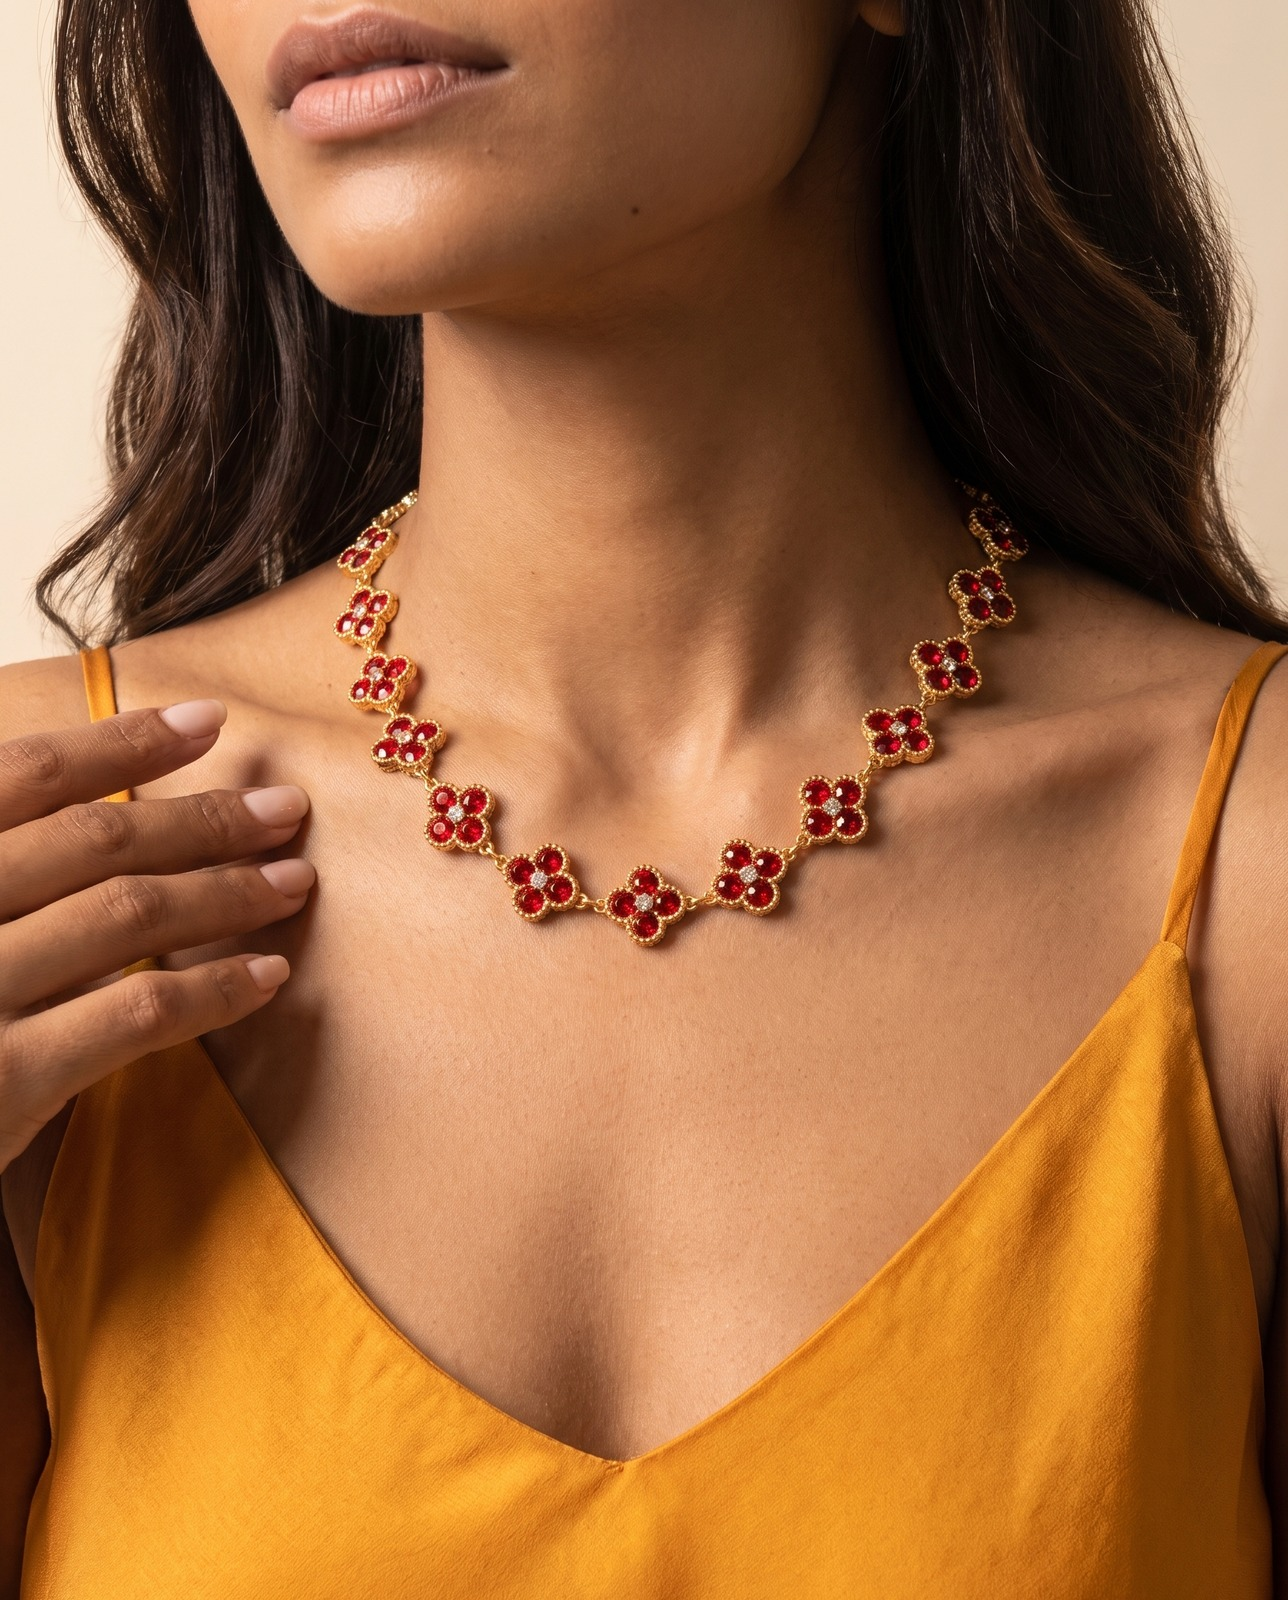
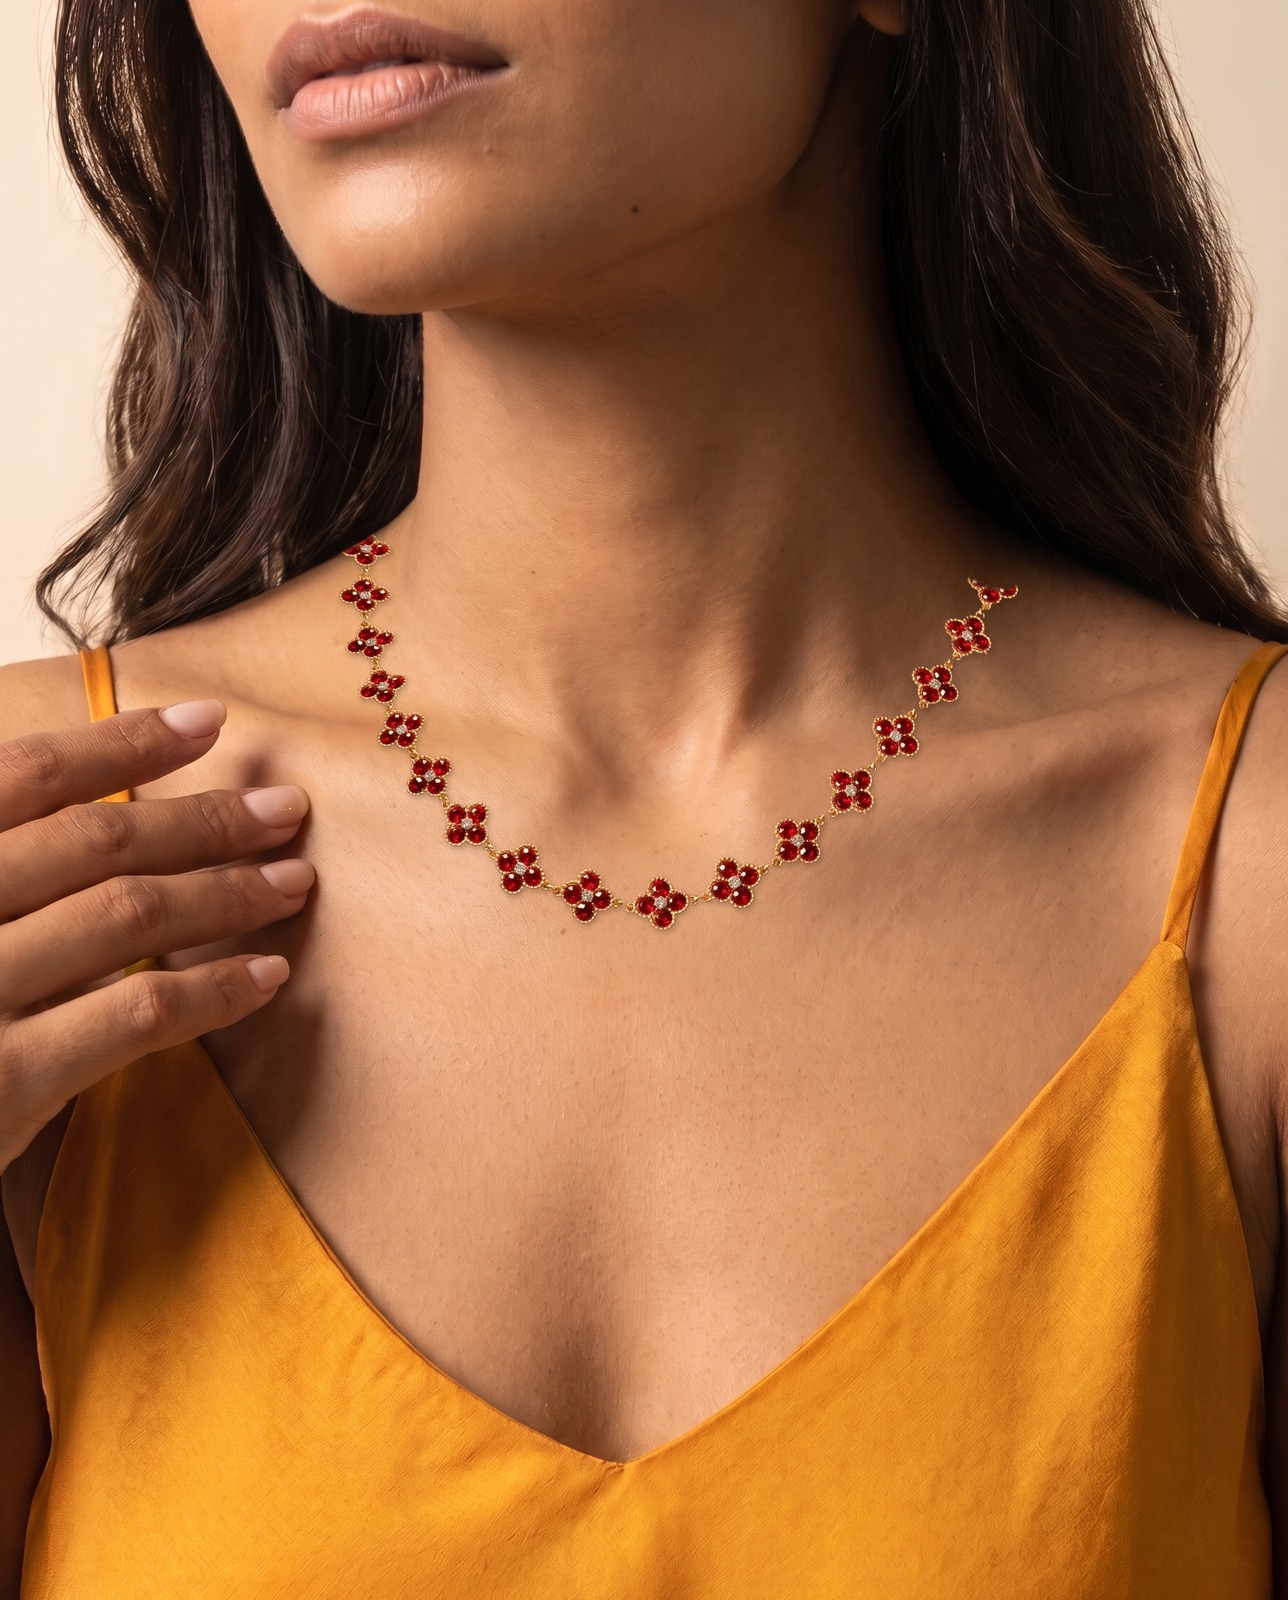
Clover Garland Necklace: worn photos rebuilt at the bracelet's 10 mm clover size
The owner asked: "Clover size check bracelet keep same sizing for neck".

- On the Clover Garland Bracelet's worn photos a clover is about 0.22 of
  the lip width (about 10 mm, as its copy says). The necklace's two worn
  photos drew it at about 0.32 (about 15 mm), with only 12 to 13 across
  the front. The copy, the size card and the palm photo were already at
  10 mm.
- Edits asking for smaller clovers came back unchanged, so a new
  comp.py garland step rebuilds the chain instead:
  - the necklace is edited out to a bare plate;
  - links are cut from the clovers that face the camera most squarely,
    with a ring at both ends and nothing of their neighbours;
  - they are laid back along the same curve at two thirds size,
    compressed where the chain recedes up the neck, with contact shadows;
  - the hair covers the chain's ends.
  Result: 17 and 19 clovers at the bracelet's ratio.
- Shopify: one CloverNeckSize mutation swapped the two worn photos; every
  other media item is kept by id. Nothing else was sent; the necklace
  stays DRAFT. Checked afterwards: media READY in order, served photos
  match the exports.
- Higgsfield: 4 edits, 8 credits.
- Recorded that the live Solitaire Drop Huggies (ADT27) and the Solitaire
  Charm Huggies (A14) are different pieces.
- Review sheet: review/clover_necklace_size_3nov.jpg.

Claude-Session: https://claude.ai/code/session_015dHqE92KQXn2h19sPkpsQR

diff --git a/docs/creative/stock-2nov/build/comp.py b/docs/creative/stock-2nov/build/comp.py
@@ -12,6 +12,7 @@
 #                           | stud SRC BARE OUT X0 Y0 X1 Y1 AX AY SCALE [DARK [MAXHOLE]]
 #                           | hug  SRC BARE OUT X0 Y0 X1 Y1 AX AY SCALE [DARK [LOBE_Y]]   (worn, with specks under 200 px dropped)
 #                           | tone SRC OUT DH SK [H0 HR SMAX X0 Y0 X1 Y1]   (B1 Orb Cable Cuff: the gold shifted to the paler yellow of the stock)
+#                           | garland SRC BARE OUT SCALE X0 Y0 X1 Y1 TOPX TOPY   (C2: the worn clover necklace rebuilt at the bracelet's clover size)
 import sys, os
 import numpy as np
 from PIL import Image, ImageFilter
@@ -148,6 +149,93 @@ def unloop(src="C2_Pf_a", plate="N02_Pclean", out="C2_Pu", grow=3):
     for _ in range(grow): hand = hand.filter(ImageFilter.MaxFilter(7))
     Image.composite(A, B, hand.filter(ImageFilter.GaussianBlur(4))).save(O(out)); print("unloop", out)
 
+def _label(b, minpix):
+    """8-connected components of a small boolean mask (BFS); returns lists of (y, x) with at least minpix pixels."""
+    h, w = b.shape; lab = np.zeros(b.shape, bool); parts = []
+    for sy, sx in zip(*np.nonzero(b)):
+        if lab[sy, sx]: continue
+        lab[sy, sx] = True; stack = [(sy, sx)]; pts = []
+        while stack:
+            y, x = stack.pop(); pts.append((y, x))
+            for yy in (y - 1, y, y + 1):
+                for xx in (x - 1, x, x + 1):
+                    if 0 <= yy < h and 0 <= xx < w and b[yy, xx] and not lab[yy, xx]: lab[yy, xx] = True; stack.append((yy, xx))
+        if len(pts) >= minpix: parts.append(pts)
+    return parts
+
+def _catmull(P, n=40):
+    """A Catmull-Rom curve through the points P (k x 2), n samples per span, with its unit tangents."""
+    P = np.asarray(P, float); Q = np.vstack([2 * P[0] - P[1], P, 2 * P[-1] - P[-2]]); pts = []
+    for i in range(1, len(Q) - 2):
+        p0, p1, p2, p3 = Q[i - 1], Q[i], Q[i + 1], Q[i + 2]
+        for t in np.linspace(0, 1, n, endpoint=False):
+            pts.append(0.5 * ((2 * p1) + (-p0 + p2) * t + (2 * p0 - 5 * p1 + 4 * p2 - p3) * t * t + (-p0 + 3 * p1 - 3 * p2 + p3) * t ** 3))
+    pts.append(P[-1]); C = np.asarray(pts); d = np.gradient(C, axis=0); d /= np.linalg.norm(d, axis=1)[:, None] + 1e-9
+    s = np.concatenate([[0], np.cumsum(np.linalg.norm(np.diff(C, axis=0), axis=1))]); return C, d, s
+
+def garland(src, bare, out, scale, box, top, thr=40):
+    """Lay a worn clover necklace back on its bare plate with every clover at `scale` of the size Higgsfield drew it (C2 Clover Garland
+    Necklace, 3 Nov: the bracelet's 10 mm clover is about 0.22 of the lip width, the necklace's worn frames drew it at about 0.32).
+    The clovers' centres (red stones, merged and labelled at quarter size inside box) are ordered round the U by angle about `top`, a
+    point above it, and joined by a Catmull-Rom curve. Each original clover is cut, turned so the curve is level at it, as a link from half
+    a pitch before it to half a pitch after, with its mask (its difference from the bare plate, kept to red, gold and clear-stone pixels).
+    New links, `scale` times the size, go every scale x pitch along the same curve from the first clover to the last; each uses the
+    original link nearest its place on the curve (so the foreshortening and the light round the neck stay), is turned to the curve, and
+    gets a soft contact shadow."""
+    A = Image.open(O(src)).convert("RGB"); Bimg = Image.open(O(bare)).convert("RGB")
+    a = np.asarray(A).astype(np.int16); b = np.asarray(Bimg).astype(np.int16)
+    hsv = np.asarray(A.convert("HSV")).astype(np.float32); hh, ss, vv = hsv[..., 0] * 360 / 255, hsv[..., 1] / 255, hsv[..., 2] / 255
+    red = ((hh < 14) | (hh > 338)) & (ss > 0.5) & (vv > 0.2)
+    gold = (hh >= 26) & (hh <= 56) & (ss >= 0.45) & (vv >= 0.3); clear = (vv >= 0.72) & (ss <= 0.3)
+    x0, y0, x1, y1 = box; inside = np.zeros(red.shape, bool); inside[y0:y1, x0:x1] = True
+    q = (red & inside)[::4, ::4]; q = np.asarray(Image.fromarray((q * 255).astype(np.uint8)).filter(ImageFilter.MaxFilter(5))) > 127
+    parts = [pts for pts in _label(q, 12) if len(pts) >= 40]                                 # specks dropped; partial clovers kept for now
+    area = np.array([len(pts) for pts in parts]); full = area >= 0.6 * np.median(area[area >= 150])
+    cen = np.array([[np.mean([p[1] for p in pts]) * 4 + 2, np.mean([p[0] for p in pts]) * 4 + 2] for pts in parts])
+    size = np.median([max(max(p[1] for p in pts) - min(p[1] for p in pts), max(p[0] for p in pts) - min(p[0] for p in pts)) * 4
+                      for pts, f in zip(parts, full) if f])
+    order = np.argsort(-np.arctan2(cen[:, 1] - top[1], cen[:, 0] - top[0])); cen, full = cen[order], full[order]   # round the U
+    C, D, S = _catmull(cen); ci = [int(np.argmin(np.linalg.norm(C - c, axis=1))) for c in cen]
+    fi = [i for i, f in zip(ci, full) if f]                  # the links are cut from whole clovers only; a part-hidden end clover only
+    pitch = np.median(np.diff(S[fi])); keep = (np.abs(a - b).sum(axis=2) > thr) & (red | gold | clear) & inside   # marks where the line goes
+    bh = np.asarray(Bimg.convert("HSV")).astype(np.float32)[..., 2] / 255
+    occl = Image.fromarray(((bh >= 0.28) * 255).astype(np.uint8)).filter(ImageFilter.GaussianBlur(2))   # hair in the bare plate hides the line
+    m = Image.fromarray((keep * 255).astype(np.uint8)).filter(ImageFilter.MaxFilter(5)).filter(ImageFilter.MinFilter(5))
+    m = Image.fromarray((fill_holes(np.asarray(m) > 127) * 255).astype(np.uint8)).filter(ImageFilter.GaussianBlur(1.2))
+    rgba = A.convert("RGBA"); rgba.putalpha(m); Hh = int(size * 1.5); sf = S[fi]
+    lp = np.array([np.mean([d for d in (sf[min(k + 1, len(sf) - 1)] - sf[k], sf[k] - sf[max(k - 1, 0)]) if d > 0]) for k in range(len(sf))])
+    order_k = sorted(range(len(fi)), key=lambda k: -lp[k]); full_p = float(np.mean(lp[order_k[:3]])); links = []
+    for k in order_k:                  # the links are cut from the clovers that face the camera most squarely (largest spacing), and
+        if len(links) == 3: break      # only those with a ring stub at BOTH ends, so the chain never breaks
+        i = fi[k]; ang = np.degrees(np.arctan2(D[i][1], D[i][0])); cx, cy = C[i]; L = int(lp[k])
+        r = rgba.rotate(ang, resample=Image.BICUBIC, center=(cx, cy))                        # PIL turns counter-clockwise: the curve goes level
+        link = r.crop((int(cx - L / 2), int(cy - Hh / 2), int(cx - L / 2) + L, int(cy - Hh / 2) + Hh))
+        al = np.asarray(link.split()[3]); own = largest(al > 40, (0, 0, al.shape[1], al.shape[0]))   # this clover and the rings joined to it
+        own = np.asarray(Image.fromarray((own * 255).astype(np.uint8)).filter(ImageFilter.MaxFilter(3))) > 127
+        al2 = al * own; e = max(3, L // 12)
+        if al2[:, :e].max() < 128 or al2[:, -e:].max() < 128: continue
+        link.putalpha(Image.fromarray(al2.astype(np.uint8))); links.append((link, L)); link.save(os.path.join(H, "comp", f"{out}_link{len(links)}.png"))
+    s0, s1 = S[ci[0]], S[ci[-1]]; spots = [s0]       # step by scale x the local spacing, so the chain recedes up the sides as it did
+    while True:
+        nxt = spots[-1] + scale * float(np.interp(spots[-1], sf, lp))
+        if nxt > s1 + 1e-6: break
+        spots.append(nxt)
+    base = Bimg.convert("RGBA"); n_new = len(spots); unit = scale
+    for t, s_ in enumerate(spots):
+        j = int(np.argmin(np.abs(S - s_))); link, L = links[t % len(links)]; ph = float(np.interp(s_, sf, lp)) / full_p   # foreshortening here
+        link = link.resize((max(1, round(L * scale * ph)), max(1, round(Hh * scale * (0.85 + 0.15 * ph)))), Image.LANCZOS)
+        link = link.rotate(-np.degrees(np.arctan2(D[j][1], D[j][0])), resample=Image.BICUBIC, expand=True)
+        x, y = int(round(C[j][0] - link.width / 2)), int(round(C[j][1] - link.height / 2))
+        al = np.asarray(link.split()[3]).astype(np.float32) * np.asarray(occl.crop((x, y, x + link.width, y + link.height))).astype(np.float32) / 255
+        al[al < 40] = 0                                                                         # no faint scraps at the link's edges
+        if al.sum() < 0.35 * np.asarray(link.split()[3]).astype(np.float32).sum(): continue    # mostly behind the hair: left out whole
+        al = al * drop_specks(al > 0, (0, 0, al.shape[1], al.shape[0]), 60)                   # no specks left where hair strands cross it
+        link.putalpha(Image.fromarray(al.astype(np.uint8)))
+        sh = Image.new("RGBA", link.size, (55, 30, 18, 0)); sh.putalpha(link.split()[3].filter(ImageFilter.GaussianBlur(4)).point(lambda v: int(v * 0.32)))
+        base.alpha_composite(sh, (x + 2, y + 4)); base.alpha_composite(link, (x, y))
+    base.convert("RGB").save(O(out)); m.save(os.path.join(H, "comp", out + "_mask.png"))
+    print("garland", out, "clovers", len(cen), "(whole", len(fi), ") ->", n_new, "| clover", round(size), "px -> about", round(size * unit), "| pitch", round(pitch), "->", round(pitch * unit))
+
 def tone(src, out, dh=9.0, sk=0.8, s0=0.22, s1=0.32, h0=12.0, h1=62.0, hr=6.0, smax=None, box=None):
     """Shift the gold's hue by dh degrees and scale its saturation by sk (B1 Orb Cable Cuff, 3 Nov: Higgsfield drew a warm orange
     gold, hue about 32 deg and saturation about 0.5, where the cuffs in the owner's photo, white balance neutral on the bag, read a
@@ -179,6 +267,8 @@ if __name__ == "__main__":
              int(n[8]) if len(n) > 8 else 900)
     elif sys.argv[1] == "run_palm": run_palm()
     elif sys.argv[1] == "unloop": unloop()
+    elif sys.argv[1] == "garland":                       # garland SRC BARE OUT SCALE X0 Y0 X1 Y1 TOPX TOPY
+        n = [float(v) for v in sys.argv[5:]]; garland(sys.argv[2], sys.argv[3], sys.argv[4], n[0], tuple(int(v) for v in n[1:5]), (n[5], n[6]))
     elif sys.argv[1] == "tone":                          # tone SRC OUT DH SK [H0 HR SMAX X0 Y0 X1 Y1]: shift the gold hue by DH deg, scale its
         n = [float(v) for v in sys.argv[4:]]              # saturation by SK; on worn frames, from hue H0 (ramp HR), under SMAX, in the box
         kw = dict(h0=n[2], hr=n[3], smax=n[4], box=n[5:9]) if len(n) > 2 else {}

diff --git a/docs/creative/stock-2nov/build/edits.py b/docs/creative/stock-2nov/build/edits.py
@@ -368,6 +368,26 @@ E["MDC_Ls"] = ("MDC_L", SILVER_MDC.format(what="a photograph of a gold choker ne
 E["MDC_5s2"] = ("MDC_5", SILVER_MDC.format(what="a close photograph of a woman wearing a gold choker necklace", keep=KEEP_MODEL).replace(
    "Nothing else changes,", "ALL of the metal is the SAME cool white silver, like platinum, with NO gold, rose, pink or copper tint anywhere: the collar on BOTH sides of the stone, the claws, the whole drop chain and the settings of both pear stones, even where the metal lies against her warm skin. Nothing else changes,"))
 ASPECT = {k: "1:1" for k in ("MDC_2s", "MDC_4s", "MDC_5s", "MDC_Ls", "MDC_5s2")}
+# 3 Nov: Clover Garland Necklace (C2), owner: "Clover size check bracelet keep same sizing for neck". On the Clover Garland Bracelet's worn
+# photos a clover is about 0.22 of the lip width (about 10 mm, as its copy says); on C2_W1_a and C2_W2q_a it is about 0.31 to 0.33 (about
+# 15 mm) with only 12 to 13 across the front, so both are redrawn with the clovers at about two thirds of their size and more of them.
+CLOVER10 = ("EDIT IMAGE 1, {what}. Make ONE change only: every clover on the necklace becomes SMALLER, about TWO THIRDS of its present size: "
+   "each clover about 10mm across, about a FIFTH of the width of her lips, its four round red stones in beaded gold cups and its tiny clear "
+   "centre stone all in proportion. Because the clovers are smaller there are MORE of them, still linked petal to petal by tiny gold rings, "
+   "so the necklace follows exactly the same path round the base of her neck and across her collarbones, with about EIGHTEEN clovers across "
+   "the front from one side of the neck to the other. Keep EVERYTHING else in IMAGE 1 exactly identical: the woman, her skin, her pose, her "
+   "hair, the camisole, the background, the light, the framing and the camera; the clovers keep the same red, the same gold and the same "
+   "design. Nothing else changes, nothing is added. " + END)
+E["C2_W1c"] = ("C2_W1_a", CLOVER10.format(what="a photograph of a woman wearing a red clover necklace, square to camera"))
+E["C2_W2qc"] = ("C2_W2q_a", CLOVER10.format(what="a photograph of a woman wearing a red clover necklace, turned a quarter to the side"))
+# The CLOVER10 edits kept the clovers at their size (about 13 across the front again), so the two frames are rebuilt locally (comp.py
+# garland): the necklace is edited out to a bare plate, and its own clover link is laid back along the same curve at two thirds size.
+BARE_NECK = ("EDIT IMAGE 1, a photograph of a woman wearing a red clover necklace. Make ONE change only: REMOVE the necklace completely, every "
+   "clover and every gold ring: her neck, collarbones and chest are bare skin where it lay, with the same skin tone, texture and light, and "
+   "her hair falls exactly as it does now. Keep EVERYTHING else in IMAGE 1 exactly identical: the woman, her face, her skin, her pose, her "
+   "hair, the camisole, the background, the light, the framing and the camera. No jewellery anywhere. " + END)
+E["C2_W1bare"] = ("C2_W1_a", BARE_NECK)
+E["C2_W2qbare"] = ("C2_W2q_a", BARE_NECK)
 
 if __name__ == "__main__":
     start = int(sys.argv[1]); keys = sys.argv[2].split(",") if len(sys.argv) > 2 else list(E); reqs, idx = [], {}

diff --git a/docs/creative/stock-2nov/build/ship_c2_worn_3nov.py b/docs/creative/stock-2nov/build/ship_c2_worn_3nov.py
@@ -1,0 +1,27 @@
+# One Shopify mutation (one approval), 3 Nov 2026, for the owner's note: "Clover size check bracelet keep same sizing for neck".
+#  - C2 Clover Garland Necklace (DRAFT): its copy and size card already give the bracelet's 10 mm clover and 3.5 mm stones, and the palm
+#    photo was composited at 10 mm, but the two worn photos drew the clovers at about 15 mm (about 0.32 of the lip width, against about
+#    0.22 on the Clover Garland Bracelet's worn photos, about 12 across the front). Both are replaced by the comp.py garland rebuilds
+#    (C2_W1g, C2_W2qg). The packshot, macro, palm and size card are kept by media id; the variant keeps its id and the packshot as image.
+#    Nothing else is sent: no status, title change, copy, price, stock or tags.
+# Usage: ship_c2_worn_3nov.py -> ../shopify/ship_c2_worn_3nov.json (variables) and ../shopify/ship_c2_worn_3nov.graphql (the mutation)
+import json, os
+H = os.path.dirname(os.path.abspath(__file__)); OUT = os.path.join(H, "../shopify")
+URL = json.load(open(os.path.join(H, "url_map.json"))); D = json.load(open(os.path.join(H, "drafts_new.json")))["C2"]
+T = "Clover Garland Necklace"; M = D["media"]
+files = [{"id": M["H"]},
+         {"originalSource": URL["clover-garland-necklace-02.jpg"], "contentType": "IMAGE", "alt": f"{T} — worn at the base of the neck"},
+         {"originalSource": URL["clover-garland-necklace-03.jpg"], "contentType": "IMAGE", "alt": f"{T} — worn, turned a quarter to the side"},
+         {"id": M["M"]}, {"id": M["P"]}, {"id": M["card"]}]
+OV = [{"optionName": "Title", "name": "Default Title"}]
+var = {"id": {"id": D["product"]},
+       "p": {"title": T, "handle": "clover-garland-necklace", "productOptions": [{"name": "Title", "values": [{"name": "Default Title"}]}],
+             "variants": [{"id": D["variant"], "optionValues": OV, "file": {"id": M["H"]}}], "files": files}}
+doc = ("mutation CloverNeckSize($id: ProductSetIdentifiers!, $p: ProductSetInput!) {\n"
+       "  p: productSet(identifier: $id, input: $p, synchronous: true) { product { id handle status totalInventory mediaCount { count } "
+       "media(first: 10) { nodes { id alt } } variants(first: 1) { nodes { id sku price inventoryQuantity } } } userErrors { field message code } }\n}\n")
+if __name__ == "__main__":
+    os.makedirs(OUT, exist_ok=True)
+    json.dump(var, open(os.path.join(OUT, "ship_c2_worn_3nov.json"), "w"), ensure_ascii=False, separators=(",", ":"))
+    open(os.path.join(OUT, "ship_c2_worn_3nov.graphql"), "w").write(doc)
+    print(json.dumps(var, ensure_ascii=False))

diff --git a/docs/creative/stock-2nov/README.md b/docs/creative/stock-2nov/README.md
@@ -533,6 +533,49 @@ One mutation, `MarquiseDropSilver` (`build/ship_mdc_silver_3nov.py`, `shopify/sh
 - The ids are in `shopify/pushed_2nov.json`; `build/mdc_live.json` holds the description as read before the change.
 - `review/marquise_drop_choker_silver_3nov.jpg` sets the gold photos above the silver ones.
 
+## Clover Garland Necklace at the bracelet's clover size, and the two solitaire huggies, 3 Nov evening
+
+**The note.** "Solitaire drop higgies are different, these are different right? Clover size chekc bracleet keep same sizing for neck".
+
+**Huggies.** The two listings are different pieces, as the live copy shows:
+- **Solitaire Drop Huggies** (ADT27, live, from the Aditya stock): a 10.5 mm huggie, a 4 mm stone on a jump ring, no tube.
+- **Solitaire Charm Huggies** (A14, draft, the owner's bag photo): a chunky 13 mm hoop, a square tube, a 6.5 mm stone.
+
+**Clover.** The Clover Garland Bracelet's copy gives about 10 mm clovers and 3.5 mm stones. The necklace's copy and size card already say the same, and its palm photo was composited at 10 mm. The two worn photos were drawn too big:
+- On the bracelet's worn photos a clover is about 0.22 of the lip width.
+- On the necklace's `C2_W1_a` and `C2_W2q_a` it was about 0.31 and 0.33, about 15 mm, with only 12 to 13 clovers across the front.
+
+**First try.** Two edits asking for clovers two thirds the size (`CLOVER10`) came back with the clovers unchanged.
+
+**Fix: `comp.py garland`.**
+- **Bare plates:** the necklace was edited out of each frame (`BARE_NECK`: `C2_W1bare_a`, `C2_W2qbare_a`).
+- **The curve:** the clovers' centres were found from the red stones inside a box that leaves out the hand. A Catmull-Rom curve was fitted through them, ordered round the U.
+- **The links:** cut from the clovers that face the camera most squarely, and only those with a ring stub at both ends. Each link keeps only its own clover and the rings joined to it.
+- **Laying them back:** the links go back along the same curve at 0.70 (W1) and 0.67 (W2q). They are compressed along the chain where it recedes up the sides of the neck, each with a soft contact shadow. Where the bare plate shows hair, the hair covers the chain.
+- **Result:** `C2_W1g` has 17 clovers along the visible neck and `C2_W2qg` has 19. Both are at about 0.22 to 0.24 of the lip width, the bracelet's ratio.
+- **Iterations:** earlier versions had their faults fixed in turn:
+  - two of the "clovers" found were fingertips;
+  - part-hidden end clovers were used as patterns;
+  - neighbour scraps came through;
+  - one link was missing its ring.
+
+  The masks and the links used are in `build/comp/`.
+
+### Higgsfield
+
+4 edits, 8 credits: the two `CLOVER10` edits, which did not take, and the two bare plates. The balance went from 93.71 to 85.71.
+
+### Shopify
+
+One mutation, `CloverNeckSize` (`build/ship_c2_worn_3nov.py`, `shopify/ship_c2_worn_3nov.graphql`, `shopify/ship_c2_worn_3nov.json`).
+- **Change:** the two worn photos were replaced. The packshot, macro, palm and size card were kept by media id, with the packshot as the variant image.
+- **Not sent:** status, copy, price, stock and tags. The necklace stays DRAFT at ₹2,199 with 5 units.
+- **Checked afterwards:**
+  - six media READY, in order;
+  - the served worn photos match the exports, with a mean difference of 1.55 and 1.9 out of 255.
+- A worker restart came before the mutation. The draft's update time and media were checked as unchanged before it was sent.
+- `review/clover_necklace_size_3nov.jpg` sets the bracelet's worn photo beside each necklace photo, before and after.
+
 ## Folder
 
 - `refs/`: the owner's photos (`*_full.jpg`) and detail crops (`*_det.jpg`).
